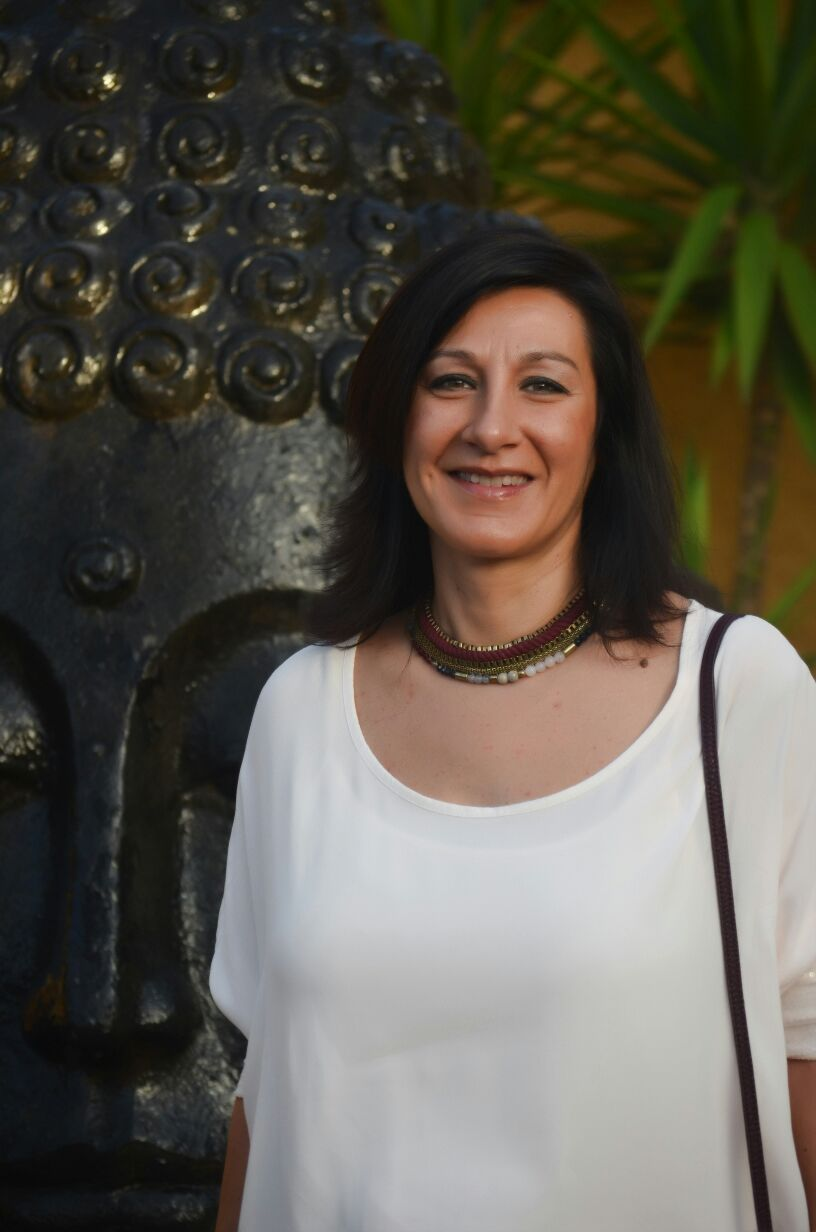
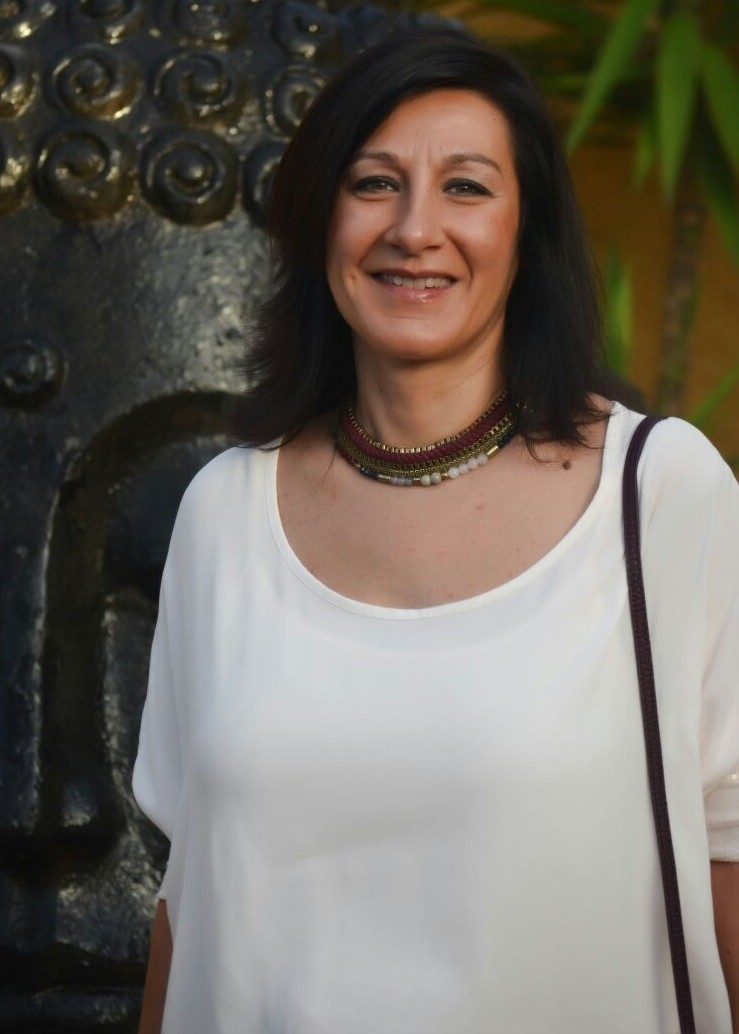
feat: update team member images and remove outdated files

diff --git a/src/app/about/page.tsx b/src/app/about/page.tsx
@@ -18,7 +18,7 @@ const teamMembers: TeamMember[] = [
         text: "text-primary-700",
         border: "border-primary-200",
         bar: "bg-primary-600",
-        image: "/images/about/Laura-San-Juan.jpg"
+        image: "/images/about/team-1.jpeg"
     },
     {
         initials: "FS",
@@ -30,7 +30,7 @@ const teamMembers: TeamMember[] = [
         text: "text-primary-700",
         border: "border-primary-200",
         bar: "bg-primary-600",
-        image: "/images/about/Fernando-Segui-Sala.png"
+        image: "/images/about/team-2.jpeg"
     },
     {
         initials: "CA",
@@ -54,7 +54,7 @@ const teamMembers: TeamMember[] = [
         text: "text-primary-700",
         border: "border-primary-200",
         bar: "bg-primary-600",
-        image: "/images/about/gabriel.jpeg"
+        image: "/images/about/team-4.jpeg"
     },
 ];
 
